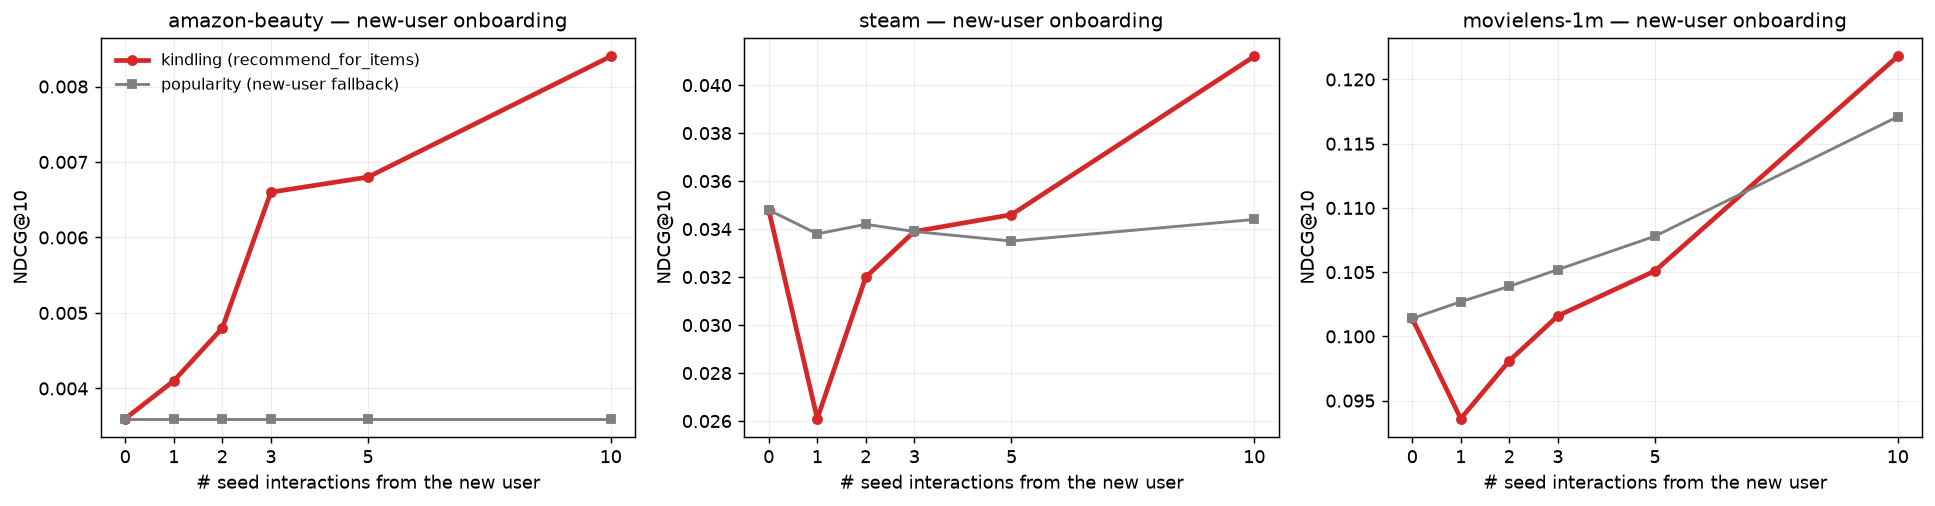
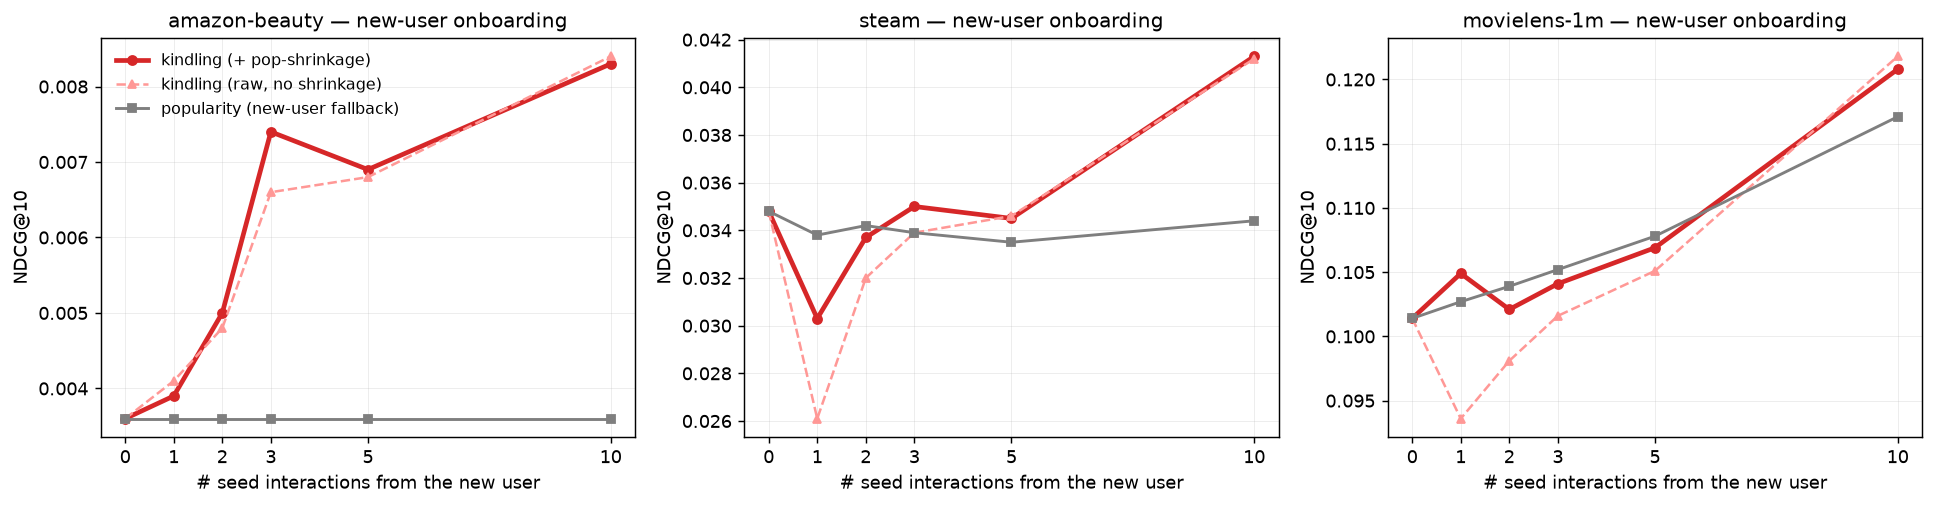
New-user popularity shrinkage: empirical-Bayes prior for thin seeds (§7.4)
The onboarding curve showed a 1-seed dip below popularity on
popularity-heavy catalogs (a single seed is a weak signal vs a strong
popularity prior). cold_user_pop_prior (default 8) adds
(c/n_seeds)·z(log popularity) to the seed-based score — shrinkage toward
the popularity prior when evidence is thin, decaying as seeds accumulate.

Effect (bench/run_onboarding.py, raw vs shrunk vs popularity):
  ml1m  k=1 0.094 -> 0.105  (now > pop 0.103; dip closed)
  steam k=1 dip -23% -> -10%, k>=2 matched/above pop
  beauty unchanged (its popularity is too flat to pull)
  high-seed wins preserved on all three.

Scoped to the new-user path: recommend() passes pop_prior=0, so warm
ranking and every committed warm/cold-user benchmark are byte-identical.
Tests: fixture runs pop_prior=0 for the pure seed->neighbor mechanism;
added a skewed-popularity test for the shrinkage wiring + a validation
test. Pre-existing temporal-interaction failures (py3.13 wheel ABI) are
unrelated and unchanged.

diff --git a/src/kindling/engine_v2.py b/src/kindling/engine_v2.py
@@ -450,6 +450,20 @@ class EngineV2:
         # cooc structure at the ceiling (ml-25m), ~0 on content-orthogonal
         # catalogs (book/beauty); ~0.06 admits ml-25m/steam, excludes book.
         cold_impute_min_r2: float = 0.06,
+        # New-user popularity-shrinkage (recommend_for_items only). A brand-new
+        # user's seed-based score is noisy when seeds are few; this adds a
+        # popularity-prior term  (pop_prior · z(log popularity))  with
+        # pop_prior = cold_user_pop_prior / n_seeds, so the ranking leans on the
+        # popularity prior when evidence is thin and on the personalized signal
+        # as seeds accumulate (empirical-Bayes shrinkage). Removes the 1-seed
+        # dip below popularity on popularity-heavy catalogs (onboarding curve)
+        # without retraining. Scoped to the new-user path — `recommend` (known
+        # users with full history) passes pop_prior=0, so warm ranking and all
+        # warm/cold-user benchmarks are unchanged. Default 8.0 (tuned on the
+        # onboarding curve): closes the 1-seed dip on ml1m, mostly on steam, is
+        # harmless on sparse catalogs (their popularity is too flat to pull),
+        # and preserves the high-seed wins (decays as c/n_seeds). 0 disables.
+        cold_user_pop_prior: float = 8.0,
         # Last-item context channel: blends z(B[last_item, :]) — the
         # EASE row of the user's most recent item — emphasizing the
         # current taste neighborhood over the whole-history average.
@@ -645,6 +659,11 @@ class EngineV2:
                 f"cold_impute_min_r2 must be >= 0; got {cold_impute_min_r2!r}"
             )
         self.cold_impute_min_r2 = float(cold_impute_min_r2)
+        if cold_user_pop_prior < 0.0:
+            raise ValueError(
+                f"cold_user_pop_prior must be >= 0; got {cold_user_pop_prior!r}"
+            )
+        self.cold_user_pop_prior = float(cold_user_pop_prior)
         if last_item_alpha < 0.0:
             raise ValueError(f"last_item_alpha must be >= 0; got {last_item_alpha!r}")
         self.last_item_alpha = last_item_alpha
@@ -1862,7 +1881,12 @@ class EngineV2:
                 owned_list.append(ix)
         if not owned_list:
             return self._cold_recommend(n)
-        return self._recommend_core(np.asarray(owned_list, dtype=np.int64), None, n)
+        # Empirical-Bayes shrinkage: lean on the popularity prior when seeds are
+        # few, the personalized signal as they accumulate.
+        pop_prior = self.cold_user_pop_prior / len(owned_list)
+        return self._recommend_core(
+            np.asarray(owned_list, dtype=np.int64), None, n, pop_prior=pop_prior
+        )
 
     def _cold_recommend(self, n: int) -> list[RecommendationV2]:
         """Zero-history fallback for brand-new users with no seeds: top-n by
@@ -1887,10 +1911,20 @@ class EngineV2:
         ]
 
     def _recommend_core(
-        self, owned: np.ndarray, entity_id: object, n: int
+        self, owned: np.ndarray, entity_id: object, n: int, pop_prior: float = 0.0
     ) -> list[RecommendationV2]:
         st = self._state
         assert st is not None
+
+        # New-user popularity shrinkage: a length-n_items addend
+        # pop_prior · z(log popularity), added to the blended full-catalog
+        # score so a thin-seed ranking leans on the popularity prior. Scalar 0
+        # (no-op) for known users (recommend passes pop_prior=0).
+        pop_addend: np.ndarray | float = 0.0
+        if pop_prior > 0.0 and st.item_popularity is not None:
+            p = np.log1p(st.item_popularity.astype(np.float64))
+            sd = p.std()
+            pop_addend = pop_prior * ((p - p.mean()) / sd) if sd > 0 else 0.0
 
         # ── 1. Retrieve candidate pool. When EASE is the base scorer it
         # powers retrieval too — the gap-decomposition diagnostic showed
@@ -1908,6 +1942,7 @@ class EngineV2:
                 st, owned, base_vec,
                 user_row=st.entity_to_user_idx.get(entity_id, -1),
             )
+            ease_scores_full = ease_scores_full + pop_addend
             ease_scores_full[owned] = -np.inf
             budget = min(self.retrieval_budget, ease_scores_full.size)
             top = np.argpartition(-ease_scores_full, budget - 1)[:budget]
@@ -1934,6 +1969,7 @@ class EngineV2:
                 st, owned, cooc_full,
                 user_row=st.entity_to_user_idx.get(entity_id, -1),
             )
+            ease_scores_full = ease_scores_full + pop_addend
             ease_scores_full[owned] = -np.inf
             budget = min(self.retrieval_budget, ease_scores_full.size)
             top = np.argpartition(-ease_scores_full, budget - 1)[:budget]

diff --git a/tests/unit/test_new_user.py b/tests/unit/test_new_user.py
@@ -25,7 +25,11 @@ def _genre_data(seed: int = 0, per_genre: int = 25, n_users: int = 800):
 
 @pytest.fixture(scope="module")
 def engine():
-    return EngineV2(persona_min_users=10**9, random_state=0).fit(_genre_data())
+    # pop-shrinkage off: these tests verify the pure seed->neighbor mechanism;
+    # shrinkage toward popularity is exercised separately below.
+    return EngineV2(
+        persona_min_users=10**9, random_state=0, cold_user_pop_prior=0.0
+    ).fit(_genre_data())
 
 
 def test_new_user_from_seeds_is_personalized(engine):
@@ -76,3 +80,33 @@ def test_known_entity_recommend_unchanged(engine):
 def test_recommend_for_items_requires_fit():
     with pytest.raises(RuntimeError, match="not fitted"):
         EngineV2().recommend_for_items(["x"], n=5)
+
+
+def test_invalid_pop_prior_rejected():
+    with pytest.raises(ValueError, match="cold_user_pop_prior"):
+        EngineV2(cold_user_pop_prior=-1.0)
+
+
+def test_pop_shrinkage_surfaces_popular_items_when_seeds_thin():
+    # Skewed popularity: genre 0 is hugely popular, genre 1 rare. A new user
+    # seeded with ONE genre-1 item: with shrinkage off the recs are genre-1
+    # neighbors; with strong shrinkage the popular genre-0 items are pulled in
+    # (the empirical-Bayes prior dominates when seed evidence is thin).
+    rng = np.random.default_rng(1)
+    rows = []
+    pop_items = [f"p{i}" for i in range(10)]   # genre 0, very popular
+    niche_items = [f"q{i}" for i in range(10)]  # genre 1, rare
+    for u in range(1000):  # everyone consumes the popular cluster
+        for it in rng.choice(pop_items, size=5, replace=False):
+            rows.append((u, it))
+    for u in range(40):    # a few users consume the niche cluster
+        for it in rng.choice(niche_items, size=5, replace=False):
+            rows.append((1000 + u, it))
+    data = pd.DataFrame(rows, columns=["entity_id", "item_id"])
+
+    raw = EngineV2(persona_min_users=10**9, cold_user_pop_prior=0.0).fit(data)
+    shrunk = EngineV2(persona_min_users=10**9, cold_user_pop_prior=8.0).fit(data)
+    raw_recs = {r.item_id for r in raw.recommend_for_items(["q0"], n=5)}
+    shrunk_recs = {r.item_id for r in shrunk.recommend_for_items(["q0"], n=5)}
+    # raw stays in the niche neighborhood; shrinkage pulls in popular items.
+    assert sum(it in pop_items for it in shrunk_recs) > sum(it in pop_items for it in raw_recs)

diff --git a/bench/run_onboarding.py b/bench/run_onboarding.py
@@ -44,6 +44,7 @@ def main() -> None:
     test_by = test.groupby("entity_id", sort=False)["item_id"].apply(lambda s: set(s))
     catalog = int(train["item_id"].nunique())
 
+    pop_prior_c = float(os.environ.get("COLD_POP_PRIOR", "8.0"))
     eng = EngineV2(persona_min_users=10**9, retrieval_budget=500, random_state=0).fit(train)
     st = eng._state
     pop = st.item_popularity if st.item_popularity is not None else np.zeros(st.n_items)
@@ -55,29 +56,33 @@ def main() -> None:
     rng = np.random.default_rng(0)
     rng.shuffle(eval_users)
     eval_users = eval_users[:max_eval]
-    log(f"{dataset}: eval_users {len(eval_users)} catalog {catalog:,} seeds {SEEDS}")
+    log(f"{dataset}: eval_users {len(eval_users)} catalog {catalog:,} seeds {SEEDS} "
+        f"pop_prior_c={pop_prior_c}")
 
     rows = []
     for k in SEEDS:
-        per_k, per_pop = [], []
+        per_raw, per_shrunk, per_pop = [], [], []
         for e in eval_users:
             seeds = train_seq[e][:k]
             rel = test_by[e] - set(seeds)
             if not rel:
                 continue
-            kr = eng.recommend_for_items(seeds, n=K)
-            per_k.append(([r.item_id for r in kr], rel))
-            # popularity baseline excludes the seeds
+            eng.cold_user_pop_prior = 0.0  # raw (no shrinkage)
+            per_raw.append(([r.item_id for r in eng.recommend_for_items(seeds, n=K)], rel))
+            eng.cold_user_pop_prior = pop_prior_c  # empirical-Bayes shrinkage
+            per_shrunk.append(([r.item_id for r in eng.recommend_for_items(seeds, n=K)], rel))
             seed_set = set(seeds)
-            pr = [it for it in pop_order if it not in seed_set][:K]
-            per_pop.append((pr, rel))
-        mk = aggregate(per_k, catalog_size=catalog, k=K)
+            per_pop.append(([it for it in pop_order if it not in seed_set][:K], rel))
+        mr = aggregate(per_raw, catalog_size=catalog, k=K)
+        ms = aggregate(per_shrunk, catalog_size=catalog, k=K)
         mp = aggregate(per_pop, catalog_size=catalog, k=K)
-        rows.append({"seeds": k, "n": len(per_k),
-                     "kindling_ndcg": round(mk.ndcg_at_k, 4), "kindling_recall": round(mk.recall_at_k, 4),
-                     "popularity_ndcg": round(mp.ndcg_at_k, 4), "popularity_recall": round(mp.recall_at_k, 4)})
-        log(f"  seeds={k:<3} kindling ndcg={rows[-1]['kindling_ndcg']:.4f} recall={rows[-1]['kindling_recall']:.4f}"
-            f"   popularity ndcg={rows[-1]['popularity_ndcg']:.4f}")
+        rows.append({"seeds": k, "n": len(per_raw),
+                     "kindling_raw_ndcg": round(mr.ndcg_at_k, 4),
+                     "kindling_ndcg": round(ms.ndcg_at_k, 4),
+                     "kindling_recall": round(ms.recall_at_k, 4),
+                     "popularity_ndcg": round(mp.ndcg_at_k, 4)})
+        log(f"  seeds={k:<3} raw={rows[-1]['kindling_raw_ndcg']:.4f} "
+            f"shrunk={rows[-1]['kindling_ndcg']:.4f} pop={rows[-1]['popularity_ndcg']:.4f}")
 
     REPORT_DIR.mkdir(parents=True, exist_ok=True)
     (REPORT_DIR / f"onboarding_{dataset}.json").write_text(

diff --git a/bench/plot_onboarding.py b/bench/plot_onboarding.py
@@ -26,7 +26,10 @@ def main() -> None:
         rows = sorted(data[d]["rows"], key=lambda r: r["seeds"])
         xs = [r["seeds"] for r in rows]
         ax.plot(xs, [r["kindling_ndcg"] for r in rows], marker="o", ms=5,
-                color="#d62728", lw=2.6, label="kindling (recommend_for_items)")
+                color="#d62728", lw=2.6, label="kindling (+ pop-shrinkage)")
+        if "kindling_raw_ndcg" in rows[0]:
+            ax.plot(xs, [r["kindling_raw_ndcg"] for r in rows], marker="^", ms=4,
+                    color="#ff9896", lw=1.4, ls="--", label="kindling (raw, no shrinkage)")
         ax.plot(xs, [r["popularity_ndcg"] for r in rows], marker="s", ms=4,
                 color="#7f7f7f", lw=1.6, label="popularity (new-user fallback)")
         ax.set_xlabel("# seed interactions from the new user")

diff --git a/docs/REFERENCE.md b/docs/REFERENCE.md
@@ -638,10 +638,17 @@ src/kindling/
    crossover comes later on popularity-heavy catalogs, with a 1-seed dip
    below popularity there (a single seed is a weak signal vs a strong
    popularity prior). Popularity is flat (ignores seeds) and trained MF
-   cannot serve absent users at all. Open refinement: shrink the
-   seed-based score toward popularity at low seed counts so 1-2 seeds
-   never underperform the prior. LLM user profiles (§4.7) remain a
-   separate, untested cross-domain bootstrap angle.
+   cannot serve absent users at all. **Popularity-shrinkage refinement
+   BUILT** (`cold_user_pop_prior`, default 8): adds
+   `(c/n_seeds)·z(log popularity)` to the seed score — empirical-Bayes
+   shrinkage toward the popularity prior when seeds are thin, decaying as
+   they accumulate. Lifts the raw 1-seed dip to/above the popularity floor
+   on popularity-heavy catalogs (ml1m k=1 0.094→0.105 > pop 0.103; steam
+   −23%→−10%), is harmless on sparse catalogs (popularity too flat to
+   pull), and preserves the high-seed wins; scoped to the new-user path
+   (`recommend` passes pop_prior=0 → warm ranking untouched). LLM user
+   profiles (§4.7) remain a separate, untested cross-domain bootstrap
+   angle.
 5. **More realistic-tier datasets** — RetailRocket (live clickstream,
    hashed metadata) would test content-channel mechanics under churn
    without LLM enrichability; H&M (rich readable metadata + churn)